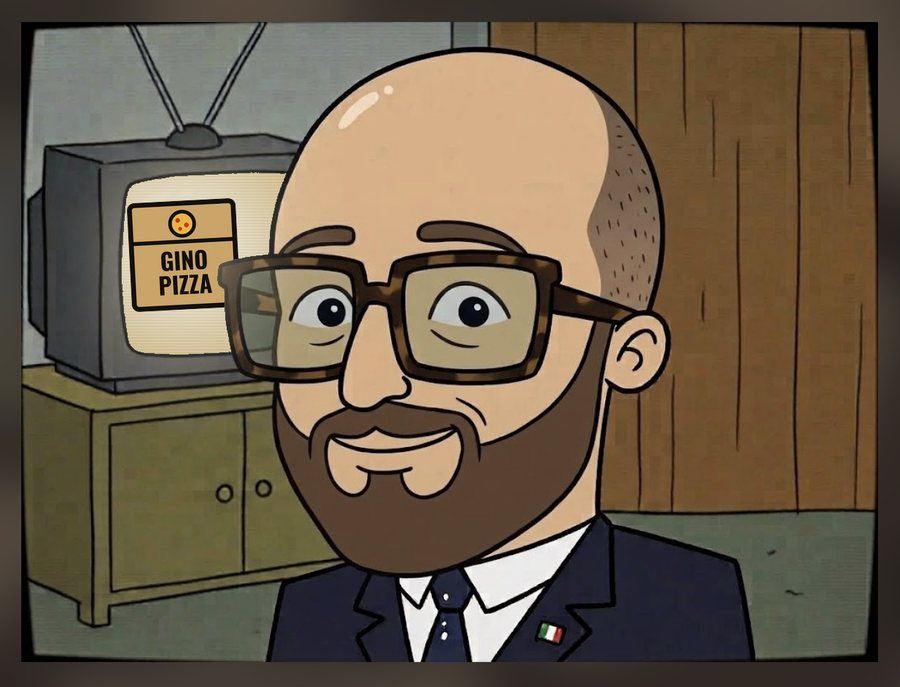
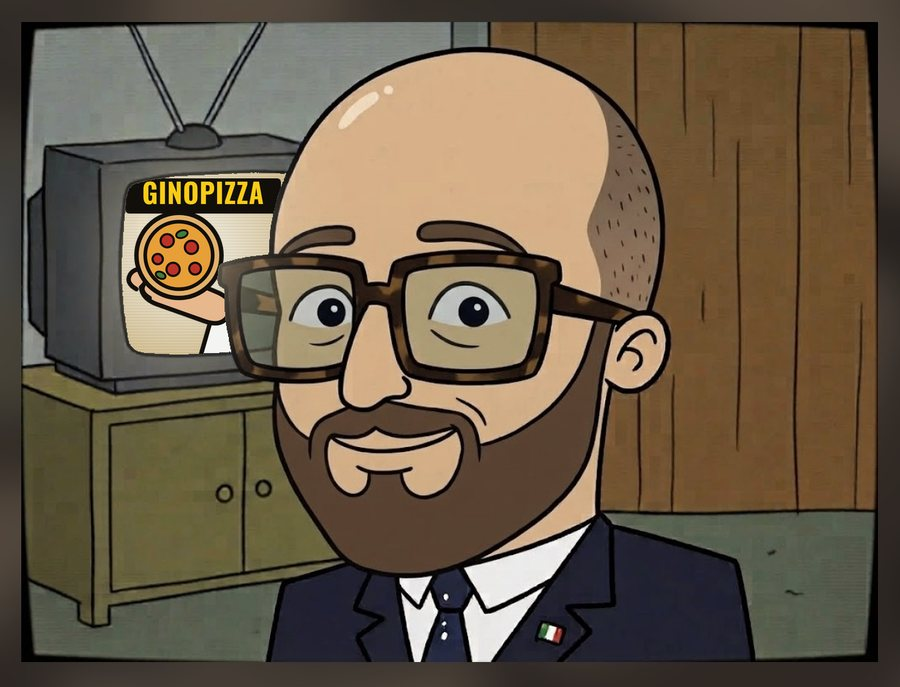
Manda in onda una mano che porge la pizza al posto della scatola
Lo schermo era occupato da una scatola sola, ferma al centro. Ora la scena
riempie il vetro: in alto la fascia nera con il nome, sotto una mano che
porge una pizza, e l'avambraccio in giacca e camicia che esce dallo schermo
e sparisce dietro alla testa invece di finire con un taglio netto.

Il disegno sta nelle coordinate del ritratto intero, quindi `accendi.py` lo
appoggia e basta: il ritaglio sulla forma vera del vetro fa il resto.

Claude-Session: https://claude.ai/code/session_01JMbSEuxVZNQcryUKyYKwZ2

Changed region(s): [[0.1244, 0.2445, 0.3111, 0.5197]]

diff --git a/index.html b/index.html
@@ -80,8 +80,8 @@ location.replace('https://'+location.host+location.pathname+location.search+loca
         <p>Qui non si sforna niente. Si firmano atti, si fissano date e si risponde di quello che si &egrave;
            fatto. La pizza la fanno meglio in paese: qui si fa il resto.</p>
       </div>
-      <img class="ritratto" src="ritratto.jpg?v=1edf608f" width="900" height="687"
-           alt="Ritratto a fumetto di Guido Costalonga: testa pelata, barba, occhiali dalla montatura spessa, giacca blu con la coccarda tricolore. Alle spalle un televisore a tubo catodico con le antenne, che manda in onda una scatola di pizza con scritto GinoPizza, un mobiletto e una parete di legno.">
+      <img class="ritratto" src="ritratto.jpg?v=49baf7ed" width="900" height="687"
+           alt="Ritratto a fumetto di Guido Costalonga: testa pelata, barba, occhiali dalla montatura spessa, giacca blu con la coccarda tricolore. Alle spalle un televisore a tubo catodico con le antenne, acceso, che manda in onda una mano che porge una pizza sotto la scritta GinoPizza, un mobiletto e una parete di legno.">
     </div>
 
     <div style="text-align:center;margin:-14px 0 34px">

diff --git a/accendi.py b/accendi.py
@@ -1,5 +1,5 @@
 # -*- coding: utf-8 -*-
-"""Accende lo schermo del televisore e ci mette dentro la scatola di GinoPizza.
+"""Accende lo schermo del televisore e ci manda in onda la scena di GinoPizza.
 
 Il vetro dello schermo viene riconosciuto con un riempimento che parte da
 dentro e si ferma sul tratto nero: così testa e occhiali, che stanno davanti,
@@ -32,7 +32,7 @@ def vetro(a):
     return dentro
 
 
-def accendi(entrata, scatola_png, uscita):
+def accendi(entrata, scena_png, uscita):
     base = Image.open(entrata).convert("RGB")
     a = np.asarray(base).astype(np.float64)
     h, w, _ = a.shape
@@ -70,27 +70,19 @@ def accendi(entrata, scatola_png, uscita):
 
     im = Image.fromarray(np.clip(fuori, 0, 255).astype(np.uint8), "RGB").convert("RGBA")
 
-    # 5. La scatola, centrata sul vetro e ritagliata come il vetro: dove passa
-    # la testa sparisce dietro, invece di stamparcisi sopra.
-    sc = Image.open(scatola_png).convert("RGBA")
-    # Grande quanto lo consente il vetro: la testa taglia la parte destra
-    # dello schermo, quindi la scatola si appoggia al bordo sinistro e la
-    # scritta resta tutta nella parte che si vede.
-    lato = int((xs.max() - xs.min()) * 0.74)
-    sc = sc.resize((lato, lato), Image.LANCZOS)
-    px = int(xs.min()) + 2
-    py = int(cy - lato / 2)
-    strato = Image.new("RGBA", im.size, (0, 0, 0, 0))
-    strato.paste(sc, (px, py), sc)
-    alfa = np.asarray(strato)[:, :, 3].astype(float) / 255.0
-    alfa = alfa * m
-    strato = Image.merge("RGBA", (*strato.split()[:3],
-                                  Image.fromarray((alfa * 255).astype(np.uint8), "L")))
-    im.alpha_composite(strato)
+    # 5. Quello che va in onda: sta gi\u00e0 nelle coordinate del ritratto intero,
+    # quindi basta appoggiarlo e ritagliarlo sulla forma del vetro. Cos\u00ec il
+    # braccio, dove passa la testa, sparisce dietro invece di stamparcisi sopra.
+    tr = Image.open(scena_png).convert("RGBA")
+    if tr.size != im.size:
+        tr = tr.resize(im.size, Image.LANCZOS)
+    alfa = (np.asarray(tr)[:, :, 3].astype(np.float64) / 255.0) * m
+    tr = Image.merge("RGBA", (*tr.split()[:3],
+                              Image.fromarray((alfa * 255).astype(np.uint8), "L")))
+    im.alpha_composite(tr)
 
     im.convert("RGB").save(uscita, quality=95)
-    print("vetro %d px, centro (%d,%d), scatola %d px -> %s"
-          % (m.sum(), cx, cy, lato, uscita))
+    print("vetro %d px, centro (%d,%d) -> %s" % (m.sum(), cx, cy, uscita))
 
 
 if __name__ == "__main__":

diff --git a/costruisci.py b/costruisci.py
@@ -267,7 +267,7 @@ CORPO_INDEX = """
            fatto. La pizza la fanno meglio in paese: qui si fa il resto.</p>
       </div>
       <img class="ritratto" src="ritratto.jpg""" + impronta("ritratto.jpg") + """" width="900" height="687"
-           alt="Ritratto a fumetto di Guido Costalonga: testa pelata, barba, occhiali dalla montatura spessa, giacca blu con la coccarda tricolore. Alle spalle un televisore a tubo catodico con le antenne, che manda in onda una scatola di pizza con scritto GinoPizza, un mobiletto e una parete di legno.">
+           alt="Ritratto a fumetto di Guido Costalonga: testa pelata, barba, occhiali dalla montatura spessa, giacca blu con la coccarda tricolore. Alle spalle un televisore a tubo catodico con le antenne, acceso, che manda in onda una mano che porge una pizza sotto la scritta GinoPizza, un mobiletto e una parete di legno.">
     </div>
 
     <div style="text-align:center;margin:-14px 0 34px">

diff --git a/LEGGIMI.md b/LEGGIMI.md
@@ -33,8 +33,8 @@ Ogni scheda ha un indirizzo suo, così si può condividere da sola.
 | `contatti.html` | Recapiti del municipio e della Polizia Locale, appuntamenti |
 
 Più `stile.css`, `sito.js`, `sigillo.svg`, `ritratto.jpg`, `anteprima.png`,
-`inter.woff2`, `oswald.woff2`, `costruisci.py`, `scatola.svg`, `accendi.py` e i
-file di servizio `CNAME`, `robots.txt`, `sitemap.xml`, `.nojekyll`.
+`inter.woff2`, `oswald.woff2`, `costruisci.py`, `trasmissione.svg`, `accendi.py`
+e i file di servizio `CNAME`, `robots.txt`, `sitemap.xml`, `.nojekyll`.
 
 I due caratteri stanno nel repository e non su un sito di terzi: aprendo una
 pagina il navigatore non contatta nessun indirizzo fuori da ginopizza.it, e di
@@ -45,18 +45,19 @@ License 1.1.
 `ritratto.jpg` è il disegno intero, con il televisore e il mobile alle spalle,
 in apertura della prima pagina: sta dentro una cornice nera spessa con l'ombra
 dura, come tutti gli altri riquadri del sito. Il televisore alle spalle è acceso e
-manda in onda una scatola di pizza con il nome GinoPizza: la luce e la scatola
-sono cotte dentro l'immagine, non sono pezzi della pagina.
+manda in onda una mano che porge una pizza, sotto la fascia con il nome: la
+luce e la scena sono cotte dentro l'immagine, non sono pezzi della pagina.
 
-Le due cose che le costruiscono stanno nel repository. `scatola.svg` disegna
-la scatola da sola, su fondo trasparente, e serve solo perché il carattere
-Oswald lo sa comporre il navigatore. `accendi.py` fa il resto: riconosce il
-vetro dello schermo con un riempimento che parte da dentro e si ferma sul
-tratto nero, così testa e occhiali, che stanno davanti, restano fuori dalla
-maschera; poi accende il vetro, ci mette le righe del tubo catodico, il
-riflesso obliquo e l'alone che lo schermo butta su quello che ha intorno, e
-infine appoggia la scatola dentro alla maschera, in modo che dove passa la
-testa sparisca dietro invece di stamparcisi sopra. `anteprima.png` è la scheda
+Le due cose che le costruiscono stanno nel repository. `trasmissione.svg`
+disegna la scena, già nelle coordinate del ritratto intero, su fondo
+trasparente; va composta dal navigatore perché il carattere Oswald lo sa
+leggere lui. `accendi.py` fa il resto: riconosce il vetro dello schermo con un
+riempimento che parte da dentro e si ferma sul tratto nero, così testa e
+occhiali, che stanno davanti, restano fuori dalla maschera; poi accende il
+vetro, ci mette le righe del tubo catodico, il riflesso obliquo e l'alone che
+lo schermo butta su quello che ha intorno, e infine appoggia la scena dentro
+alla maschera. È per questo che il braccio, invece di finire con un taglio
+netto, sparisce dietro alla testa. `anteprima.png` è la scheda
 1200 per 630 che compare quando un collegamento del sito viene condiviso.
 
 Le schede figlie hanno le briciole di navigazione in alto (Home, indice, scheda)
